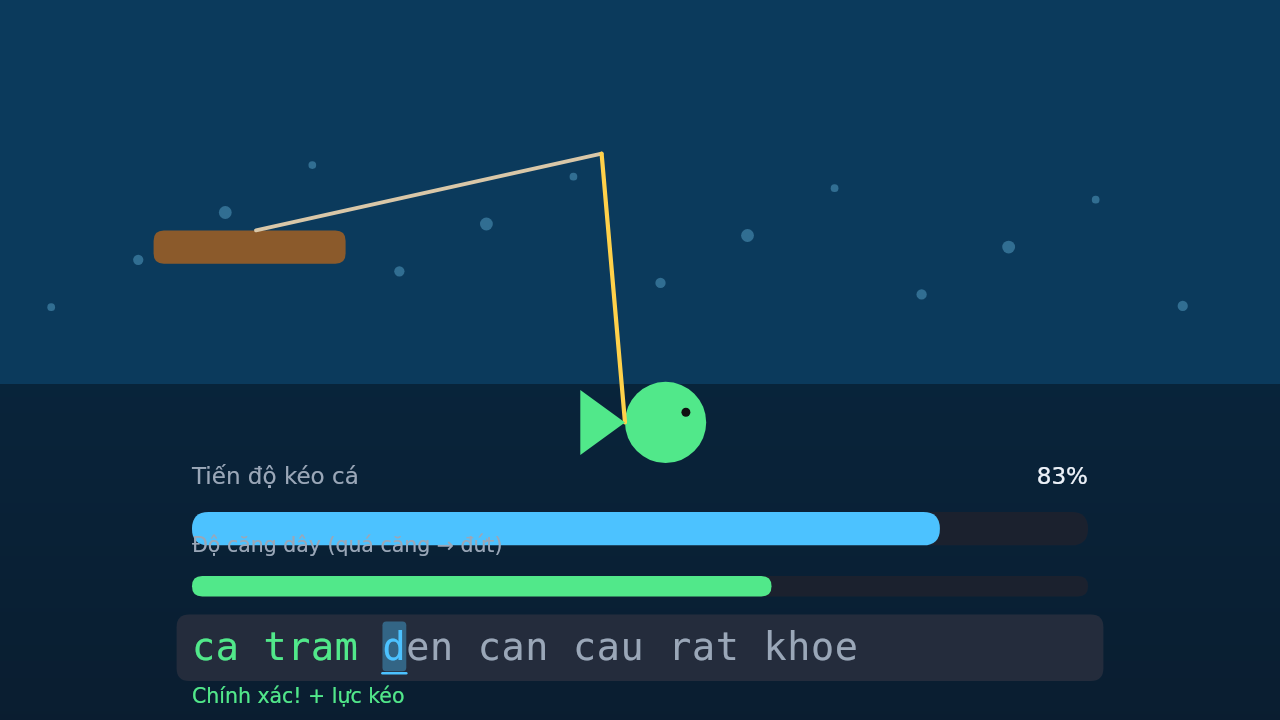
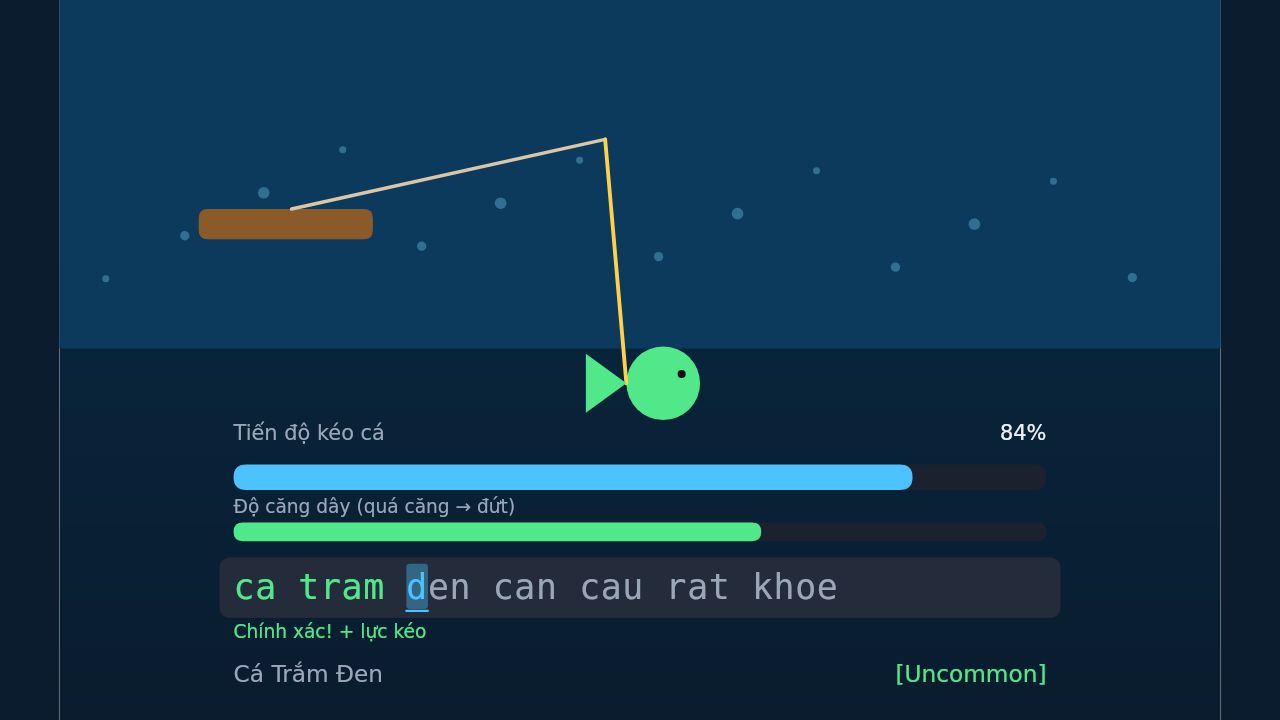
fix: separate Fishing meter labels and fit both canvas axes

diff --git a/tests/web_render_test.js b/tests/web_render_test.js
@@ -199,9 +199,12 @@ function testEveryGameDraws() {
     assert(frame.cmds.length === fixture.cmds, slug + ': fixture matches its command count');
     assert(drawCalls.find((c) => c.kind === 'setTransform') !== undefined,
            slug + ': the canvas transform is set (scaling to the CSS size)');
-    const transform = drawCalls.find((c) => c.kind === 'setTransform');
-    assert(transform && Math.abs(transform.arg[0] - 1280 / frame.w) < 1e-9,
-           slug + ': scale = canvas width / frame width');
+    const transform = drawCalls.filter((c) => c.kind === 'setTransform').at(-1);
+    assert(transform && Math.abs(transform.arg[0] - Math.min(1280 / frame.w, 720 / frame.h)) < 1e-9,
+           slug + ': scale fits both axes');
+    const [scale, , , , dx, dy] = transform.arg;
+    assert(dx >= 0 && dy >= 0 && dx + frame.w * scale <= 1280.001 &&
+      dy + frame.h * scale <= 720.001, slug + ': whole world is inside viewport');
     assert(drawCalls.find((c) => c.kind === 'clearRect') !== undefined,
            slug + ': the frame is cleared before drawing');
     // Every command kind maps onto draw calls: rects/circles/lines/polys/text.

diff --git a/web/arcade.js b/web/arcade.js
@@ -86,8 +86,15 @@ function roundedRect(x, y, w, h, r) {
 }
 
 function drawFrame(frame) {
-  const scale = canvas.width / frame.w;
-  ctx.setTransform(scale, 0, 0, scale, 0, 0);
+  // Match the native viewport: fit BOTH axes and center the world. Width-only
+  // scaling cropped the bottom HUD of tall games on this 16:9 canvas.
+  const scale = Math.min(canvas.width / frame.w, canvas.height / frame.h);
+  const dx = (canvas.width - frame.w * scale) / 2;
+  const dy = (canvas.height - frame.h * scale) / 2;
+  ctx.setTransform(1, 0, 0, 1, 0, 0);
+  ctx.fillStyle = cssColor(frame.bg);
+  ctx.fillRect(0, 0, canvas.width, canvas.height);
+  ctx.setTransform(scale, 0, 0, scale, dx, dy);
   ctx.clearRect(0, 0, frame.w, frame.h);
 
   if (frame.bg === frame.bg2) {

diff --git a/src/core/Arcade.cpp b/src/core/Arcade.cpp
@@ -1133,9 +1133,9 @@ void FishingGame::buildFrame(Frame& frame) const {
     frame.addLine(470, 120, fishX - fishR, fishY, lineColor, 2 + static_cast<float>(m_lineTension) * 0.02f);
 
     // Pull progress bar
-    frame.addRect(150, 400, 700, 26, palette::kPanel, 13);
+    frame.addRect(150, 400, 700, 22, palette::kPanel, 11);
     frame.addRect(150, 400, 700.0f * static_cast<float>(std::clamp(m_pullProgress / 100.0, 0.0, 1.0)),
-                  26, palette::kAccent, 13);
+                  22, palette::kAccent, 11);
     frame.addText(150, 372, 18, palette::kTextDim, TextAlign::Left, U"Tiến độ kéo cá");
     frame.addText(850, 372, 18, palette::kText, TextAlign::Right,
                   frame.internDouble(U"", m_pullProgress, 0, U"%"));
@@ -1145,7 +1145,7 @@ void FishingGame::buildFrame(Frame& frame) const {
     frame.addRect(150, 450, 700, 16, palette::kPanel, 8);
     frame.addRect(150, 450, 700.0f * static_cast<float>(std::clamp(m_lineTension / 100.0, 0.0, 1.0)),
                   16, tensionColor, 8);
-    frame.addText(150, 426, 16, palette::kTextDim, TextAlign::Left, U"Độ căng dây (quá căng → đứt)");
+    frame.addText(150, 436, 16, palette::kTextDim, TextAlign::Left, U"Độ căng dây (quá căng → đứt)");
 
     // Prompt line with per-character state
     PassageStyle style{};

diff --git a/tests/test_arcade.cpp b/tests/test_arcade.cpp
@@ -1201,6 +1201,12 @@ static void testTypingFeedbackAndEditing() {
         if (t.text.find(U"Sai ký tự") != std::u32string_view::npos) { hint = true; }
     }
     CHECK(hint);
+    for (const auto& t : frame.texts) {
+        if (t.text.starts_with(U"Độ căng dây")) {
+            CHECK(t.y - t.size / 2 >= 428); // six-pixel clearance after first bar
+            CHECK(t.y + t.size / 2 <= 444); // six-pixel clearance before second bar
+        }
+    }
     fishing.handleKey({0x71, 0, true});
     CHECK(fishing.getPromptIndex() == 0 && fishing.getCatches() == 0);
     NoMistakeGame strict; strict.start();

diff --git a/CHANGELOG.md b/CHANGELOG.md
@@ -11,6 +11,8 @@ Keep a Changelog; versioning: SemVer.
   colored runs in native/web renderers, one viewport scale (no second DPI
   multiplier), bounded scrolling caret windows for all four passage games.
   Add font-aware tests over 1,440 evolving native-shim frames at four DPIs.
+  Pixel review also exposed a Fishing meter-label overlap and width-only web
+  scaling that clipped tall games; both now have regression checks.
 * Separate tab content from native tab headers; move the welcome/level-up toast
   off the Hub title into an opaque panel and display native pause/finish banners.
 * Typing-game polish: immediate correct/wrong/catch/escape feedback, working
